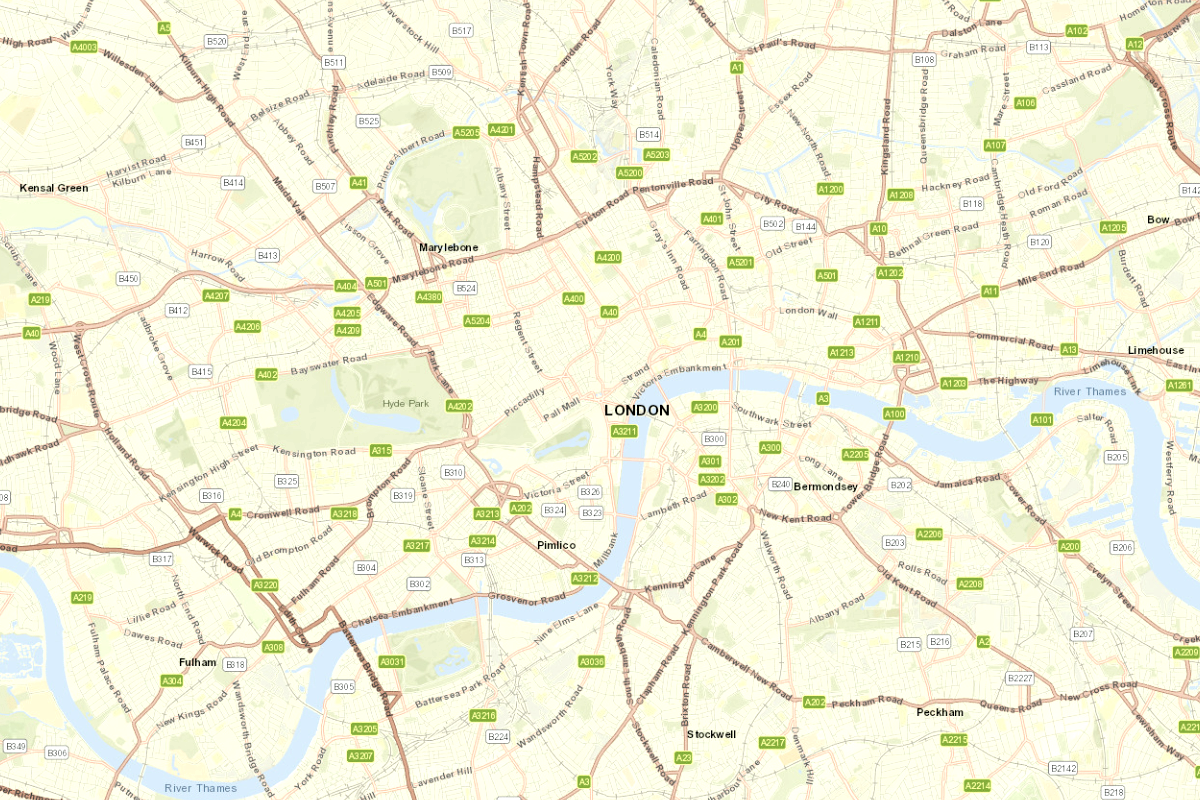
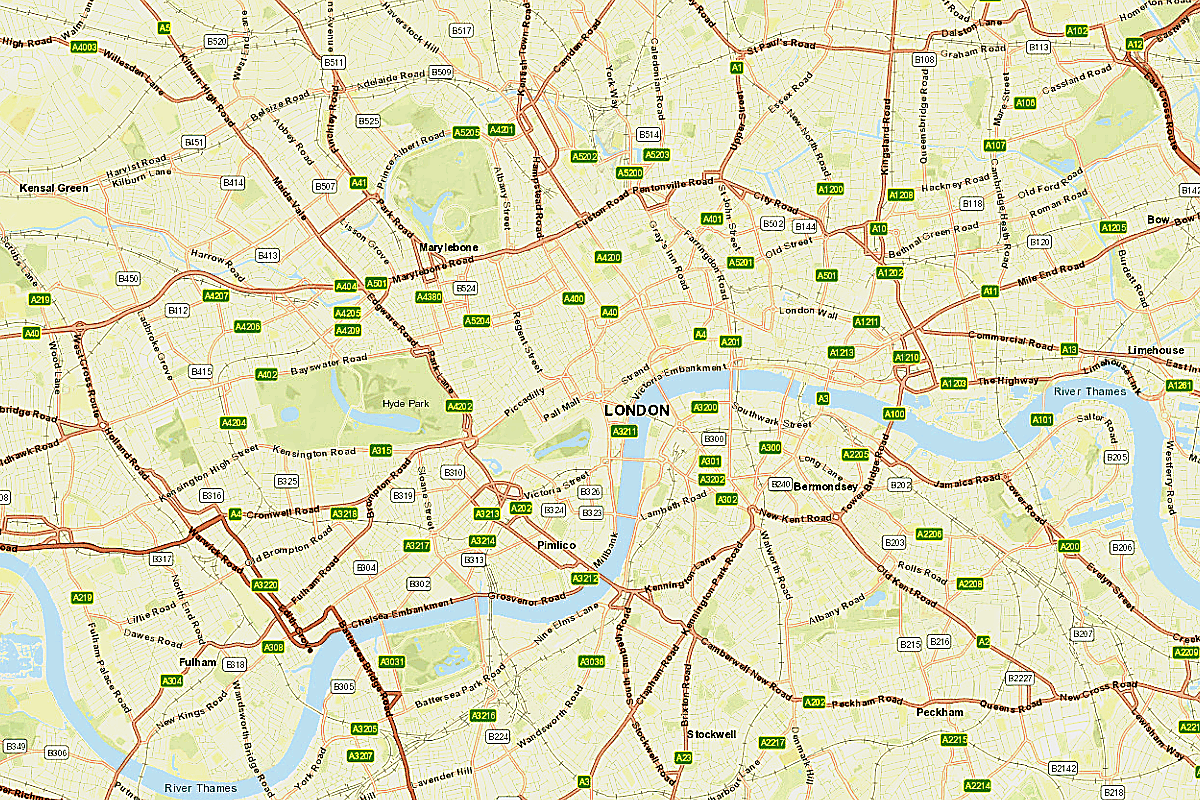
fix(guias): strengthen 30s map contrast and unblock prod redeploy (#44)
PR #43 merged to main but Vercel Production for 2go-travel-web-app failed,
so production still serves washed Light Gray maps, flat-lay Londres thumb,
and IMAGEM ILUSTRATIVA hotel overlays from e6c5f7e.

Re-encode the seven city basemaps with higher contrast/saturation and kill
the map wash CSS so streets and labels stay readable after the next
successful production deploy.

diff --git a/src/app/globals.css b/src/app/globals.css
@@ -256,39 +256,35 @@ html {
  * Modern light (Opção 2) — production default for all city-guide 30s maps.
  * Optical zoom enlarges baked street / neighborhood labels. No Place IDs.
  * Pins keep 2GO navy/orange brand chrome (not map CSS).
+ * Contrast is intentional: Filipe rejected washed Light Gray / pale street tiles.
  */
 .guide-city-map {
   --guide-map-zoom: 1.48;
-  background: linear-gradient(160deg, #e8eef4 0%, #f3f6f9 100%);
+  background: linear-gradient(160deg, #dbe4ee 0%, #eef2f6 100%);
 }
 
 .guide-city-map__img {
-  /* Modern light street basemap + optical zoom; light polish only — streets/labels stay readable. */
-  filter: contrast(1.06) saturate(0.92) brightness(1.01);
+  /* Stronger contrast so streets/labels read clearly; no desaturate/bleach. */
+  filter: contrast(1.28) saturate(1.12) brightness(0.97);
   transform: scale(var(--guide-map-zoom));
   transform-origin: center;
 }
 
 .guide-city-map__wash {
+  /* Keep layer for structure, but do not bleach the basemap. */
   pointer-events: none;
-  background:
-    linear-gradient(180deg, rgba(255, 255, 255, 0.06) 0%, transparent 28%, rgba(15, 23, 42, 0.04) 100%),
-    linear-gradient(120deg, rgba(100, 116, 139, 0.03), transparent 52%);
+  background: transparent;
   mix-blend-mode: normal;
-  opacity: 0.14;
+  opacity: 0;
 }
 
 .guide-city-map__wash::after {
-  content: '';
-  position: absolute;
-  inset: 0;
-  background: linear-gradient(180deg, rgba(248, 250, 252, 0.02), transparent 40%, rgba(15, 23, 42, 0.03));
-  mix-blend-mode: soft-light;
+  content: none;
 }
 
 .guide-city-map__grid {
   pointer-events: none;
-  opacity: 0.04;
+  opacity: 0.03;
   background-image:
     linear-gradient(rgba(15, 23, 42, 0.05) 1px, transparent 1px),
     linear-gradient(90deg, rgba(15, 23, 42, 0.05) 1px, transparent 1px);
@@ -321,21 +317,19 @@ html {
 }
 
 .guide-city-map[data-map-theme='modern-light'] {
-  background: linear-gradient(160deg, #e8eef4 0%, #f3f6f9 100%);
+  background: linear-gradient(160deg, #dbe4ee 0%, #eef2f6 100%);
 }
 .guide-city-map[data-map-theme='modern-light'] .guide-city-map__img {
-  filter: contrast(1.06) saturate(0.92) brightness(1.01);
+  filter: contrast(1.28) saturate(1.12) brightness(0.97);
   transform: scale(var(--guide-map-zoom));
 }
 .guide-city-map[data-map-theme='modern-light'] .guide-city-map__wash {
-  background:
-    linear-gradient(180deg, rgba(255, 255, 255, 0.06) 0%, transparent 28%, rgba(15, 23, 42, 0.04) 100%),
-    linear-gradient(120deg, rgba(100, 116, 139, 0.03), transparent 52%);
+  background: transparent;
   mix-blend-mode: normal;
-  opacity: 0.14;
+  opacity: 0;
 }
 .guide-city-map[data-map-theme='modern-light'] .guide-city-map__grid {
-  opacity: 0.04;
+  opacity: 0.03;
 }
 
 .guide-city-map[data-map-theme='dark-slate'] {

diff --git a/src/app/mapa-opcoes/page.js b/src/app/mapa-opcoes/page.js
@@ -58,7 +58,7 @@ export const MAP_STYLE_OPTIONS = [
     id: 'modern-light',
     name: 'Modern light (produção)',
     short: 'modern-light',
-    description: 'Street basemap claro + wash mínimo — ruas/labels legíveis sem sepia vintage.',
+    description: 'Street basemap com contraste reforçado + wash desligado — ruas/labels legíveis.',
     mapSrc: '/images/maps/paris.png',
     pins: GEO_PINS,
     productionLike: true,
